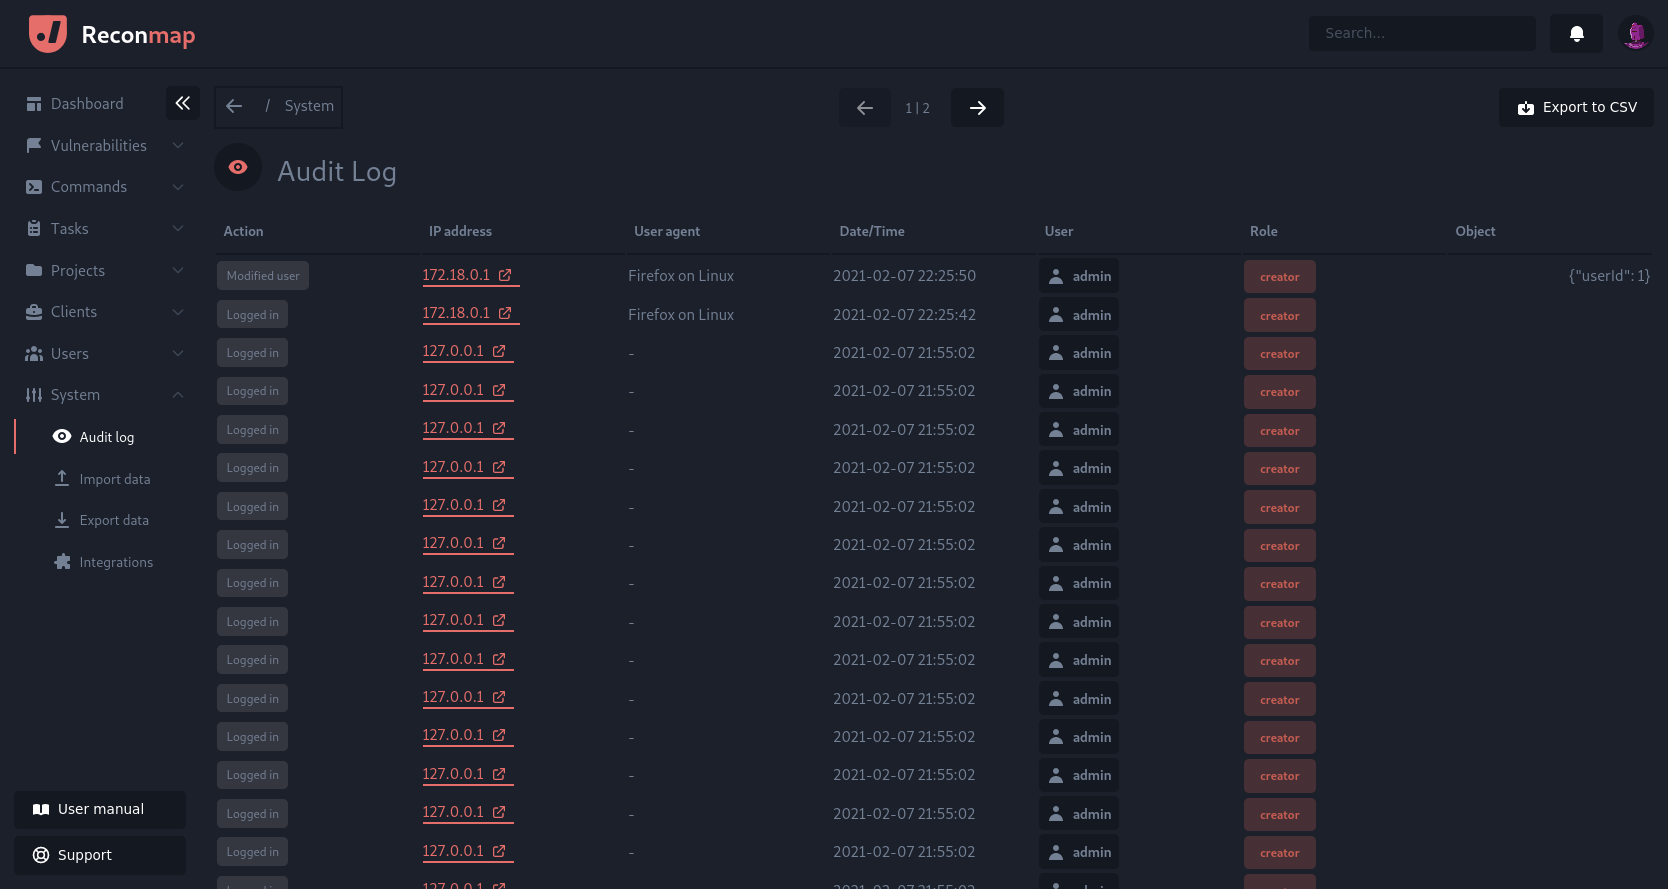
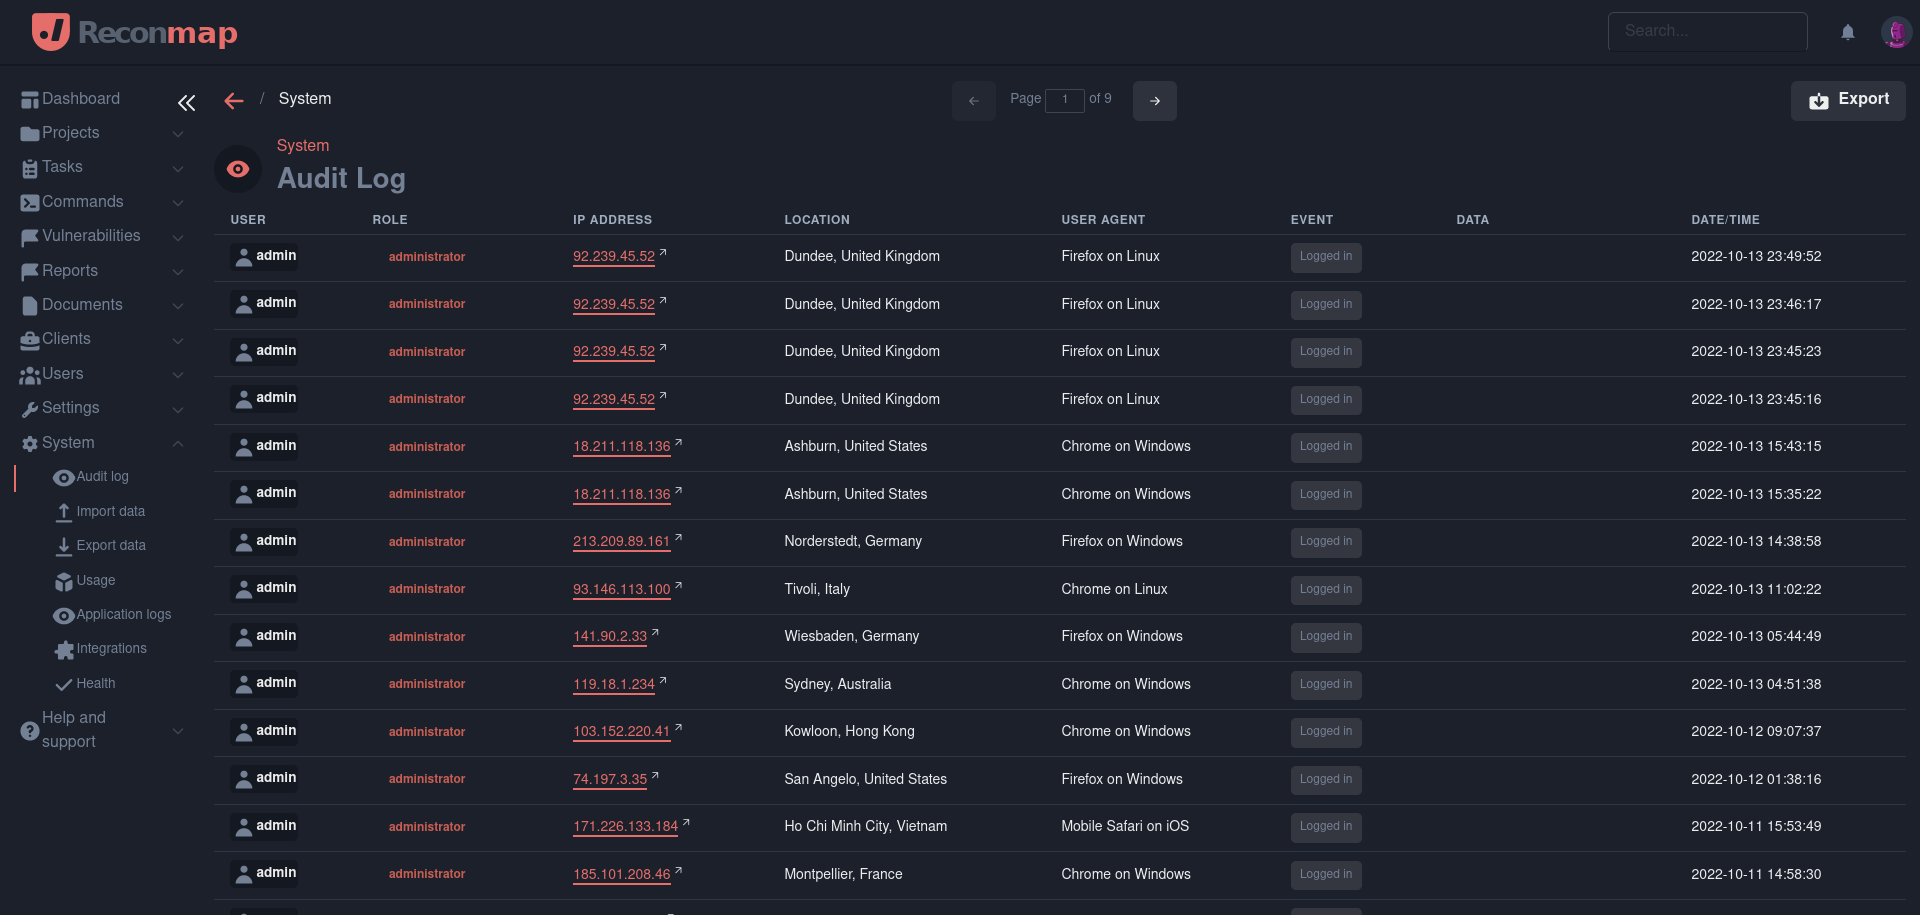
Update audit log screenshot and description

diff --git a/user-manual/system/audit-log.md b/user-manual/system/audit-log.md
@@ -6,13 +6,13 @@ grand_parent: User manual
 
 ## {{page.title}}
 
-The audit log keeps track of all the user actions and is a great way to see what was done by who and when. In addition to this data, it includes the network IP from where the action was originated.
+The audit log keeps track of all the user actions and is a great way to see what was done by who and when. In addition to this data, it includes the network IP, the user agent and geographical location from where the action was originated.
 
 ![Vulnerabilities view](/images/screenshots/audit-log.png)
 
 Al the data in the audit log is permanent and non-modifiable.
 
-The audit log keeps tracks of all following actions:
+The audit log keeps tracks of all following actions and many others:
 
 - User logged in
 - User logged out
